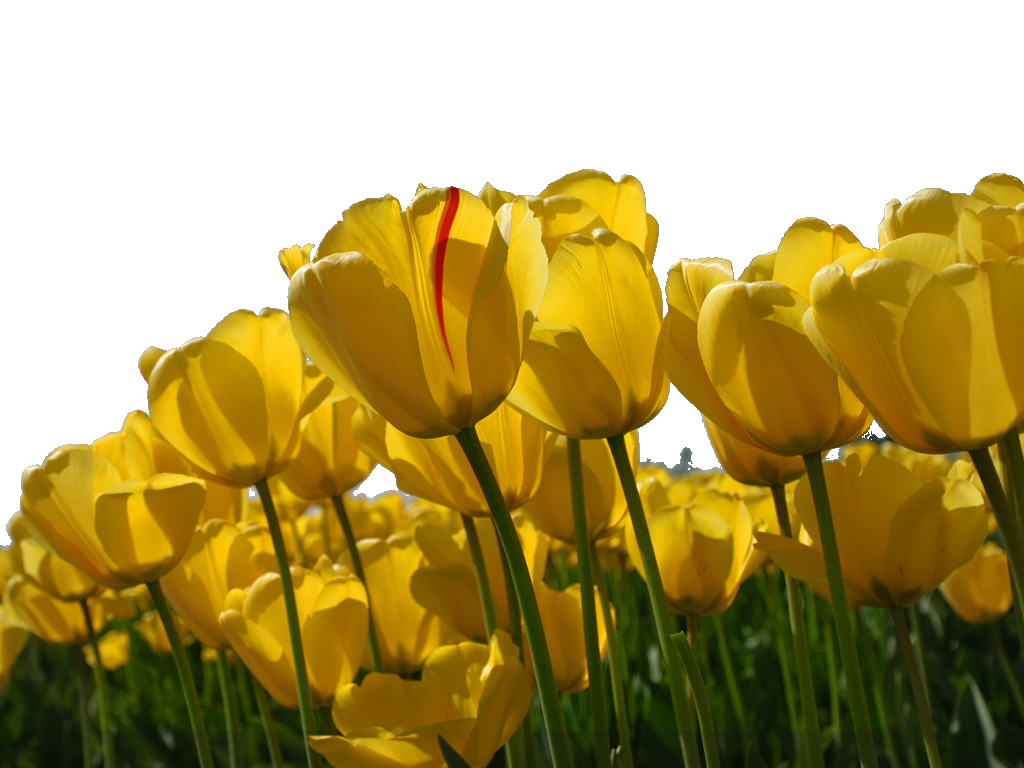
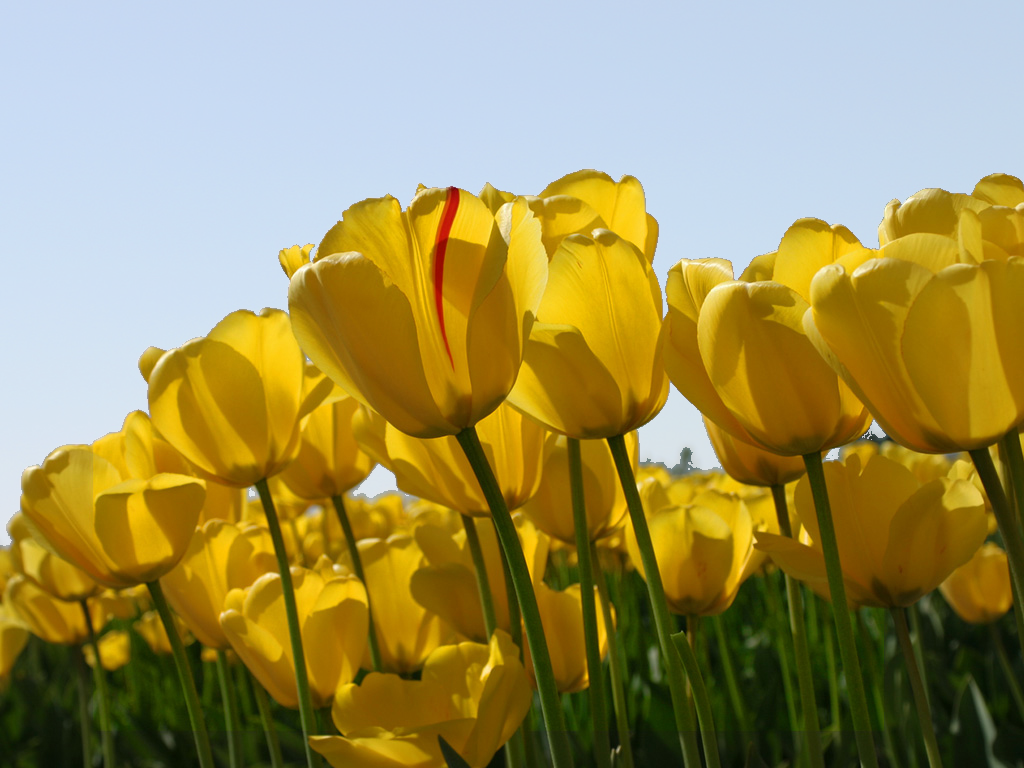
Aufgabe 2: Alle Fehler behoben

diff --git a/src/RGB_Vorlage.java b/src/RGB_Vorlage.java
@@ -62,7 +62,7 @@ public class RGB_Vorlage extends Frame {
 			 RGB rg = new RGB(this.red, this.green, this.blue);
 			 
 			 if(this.blue > this.green && this.blue > this.red) {
-				 rg.alpha = 50;//85
+				 rg.alpha = 85;
 			 }
 			
 			 return rg;
@@ -222,7 +222,7 @@ public class RGB_Vorlage extends Frame {
 			// Determine the type of transparency of the new buffered image
 			int transparency = Transparency.OPAQUE;
 			if (hasAlpha) {
-				transparency = Transparency.BITMASK;
+				transparency = Transparency.TRANSLUCENT;
 			} // if
 
 			// Create the buffered image
